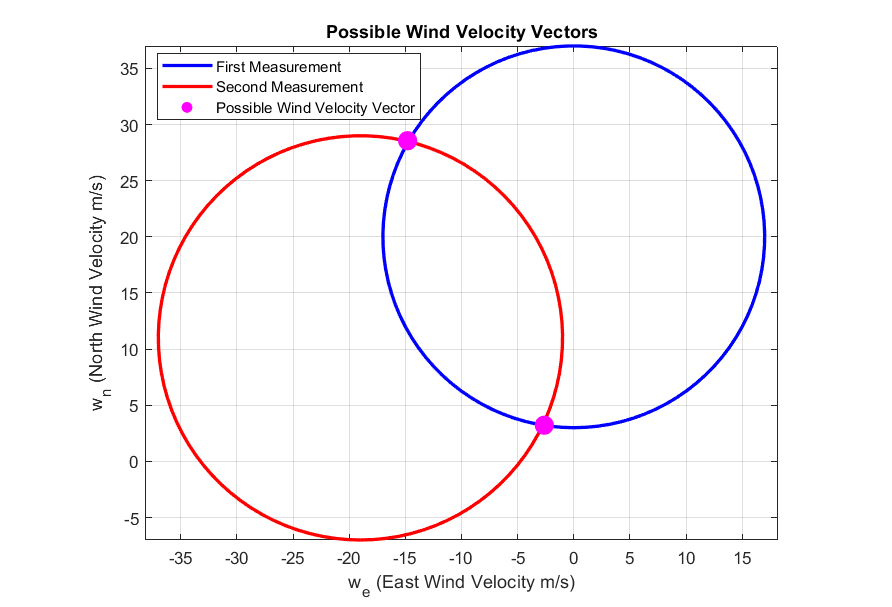
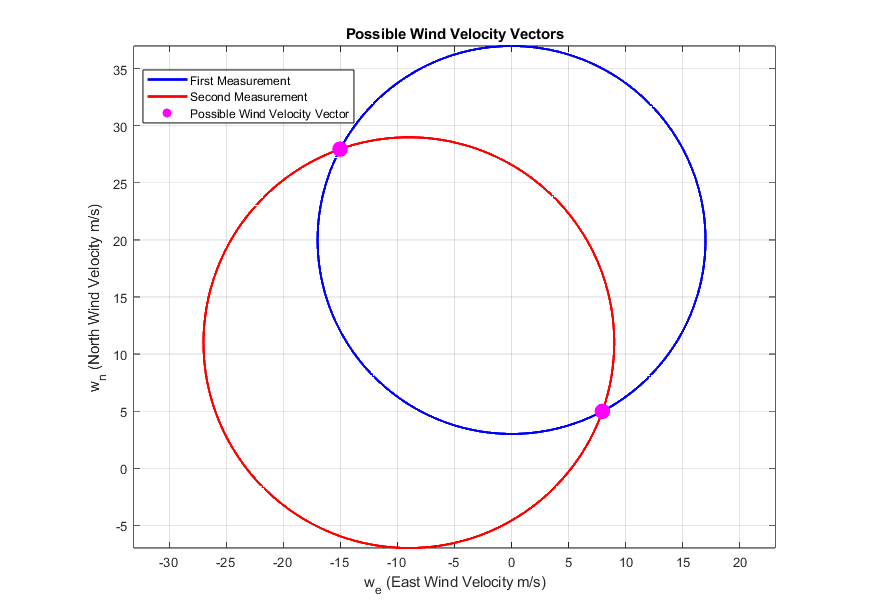
Update

diff --git a/ASEN5128/exam2.m b/ASEN5128/exam2.m
@@ -3,9 +3,9 @@ close all; clear; clc;
 
 
 %% Problem 2
-angles = linspace(0, 2*pi, 100);
+angles = linspace(0, 2*pi, 10000);
 wind_vecs_1 = -17 .* [cos(angles); sin(angles)] + [20; 0];
-wind_vecs_2 = -18 .* [cos(angles); sin(angles)] + [11; -19];
+wind_vecs_2 = -18 .* [cos(angles); sin(angles)] + [11; -9];
 
 % Find where they intersect
 angle_diff = vecnorm(wind_vecs_2 - wind_vecs_1, 2, 1);
@@ -16,14 +16,15 @@ plot(wind_vecs_1(2,:), wind_vecs_1(1,:), 'linewidth', 2, 'color', 'b')
 hold on
 grid on
 plot(wind_vecs_2(2,:), wind_vecs_2(1,:), 'linewidth', 2, 'color', 'r')
-scatter([-14.8; -2.627], [28.557; 3.223], 'filled', 'MarkerEdgeColor', 'm', 'MarkerFaceColor', 'm', 'Marker', 'o', 'SizeData', 120)
+scatter([-15.0286; 7.96325], [27.9604; 4.9794], 'filled', 'MarkerEdgeColor', 'm', 'MarkerFaceColor', 'm', 'Marker', 'o', 'SizeData', 120)
 
 
 xlabel('w_e (East Wind Velocity m/s)')
 ylabel('w_n (North Wind Velocity m/s)')
 title('Possible Wind Velocity Vectors')
 legend('First Measurement', 'Second Measurement', 'Possible Wind Velocity Vector', 'location', 'best')
-%legend('Second Measurement', 'location', 'best')
+%legend('First Measurement', 'Second Measurement', 'location', 'best')
+% legend('Second Measurement', 'location', 'best')
 axis equal
 
 
@@ -43,6 +44,49 @@ alpha = 8 * pi/180;
 euler_angles = [phi; theta; psi];
 
 nominal_wind = CalculateInertialWind(Vee, euler_angles, Va, beta, alpha);
-
+nom_speed = norm(nominal_wind);
+nom_direction = atan2(nominal_wind(2), nominal_wind(1));
 
 % Sensitivity analysis
+del_anlge = 0.001 * pi/180;
+del_phi = del_anlge;
+del_theta = del_anlge;
+del_psi = del_anlge;
+
+% Calculate the wind with the sensitivity variables
+euler_phi = euler_angles + [del_phi; 0; 0];
+euler_theta = euler_angles + [0; del_theta; 0];
+euler_psi = euler_angles + [0; 0; del_psi];
+
+% Calculate the wind
+phi_wind = CalculateInertialWind(Vee, euler_phi, Va, beta, alpha);
+theta_wind = CalculateInertialWind(Vee, euler_theta, Va, beta, alpha);
+psi_wind = CalculateInertialWind(Vee, euler_psi, Va, beta, alpha);
+
+% Calculate the speed and direction
+phi_speed = norm(phi_wind);
+phi_direction = atan2(phi_wind(2), phi_wind(1));
+theta_speed = norm(theta_wind);
+theta_direction = atan2(theta_wind(2), theta_wind(1));
+psi_speed = norm(psi_wind);
+psi_direction = atan2(psi_wind(2), psi_wind(1));
+
+% Sensitivity calculation
+phi_speed_sens = (phi_speed - nom_speed) / del_phi;
+phi_direction_sens = (phi_direction - nom_direction) / del_phi;
+theta_speed_sens = (theta_speed - nom_speed) / del_theta;
+theta_direction_sens = (theta_direction - nom_direction) / del_theta;
+psi_speed_sens = (psi_speed - nom_speed) / del_psi;
+psi_direction_sens = (psi_direction - nom_direction) / del_psi;
+
+% Output results
+% Display using fprintf
+fprintf('Sensitivities:\n');
+fprintf('Phi Speed Sensitivity: %.3f\n', phi_speed_sens);
+fprintf('Phi Direction Sensitivity: %.3f\n', phi_direction_sens);
+fprintf('Theta Speed Sensitivity: %.3f\n', theta_speed_sens);
+fprintf('Theta Direction Sensitivity: %.3f\n', theta_direction_sens);
+fprintf('Psi Speed Sensitivity: %.3f\n', psi_speed_sens);
+fprintf('Psi Direction Sensitivity: %.3f\n', psi_direction_sens);
+
+
